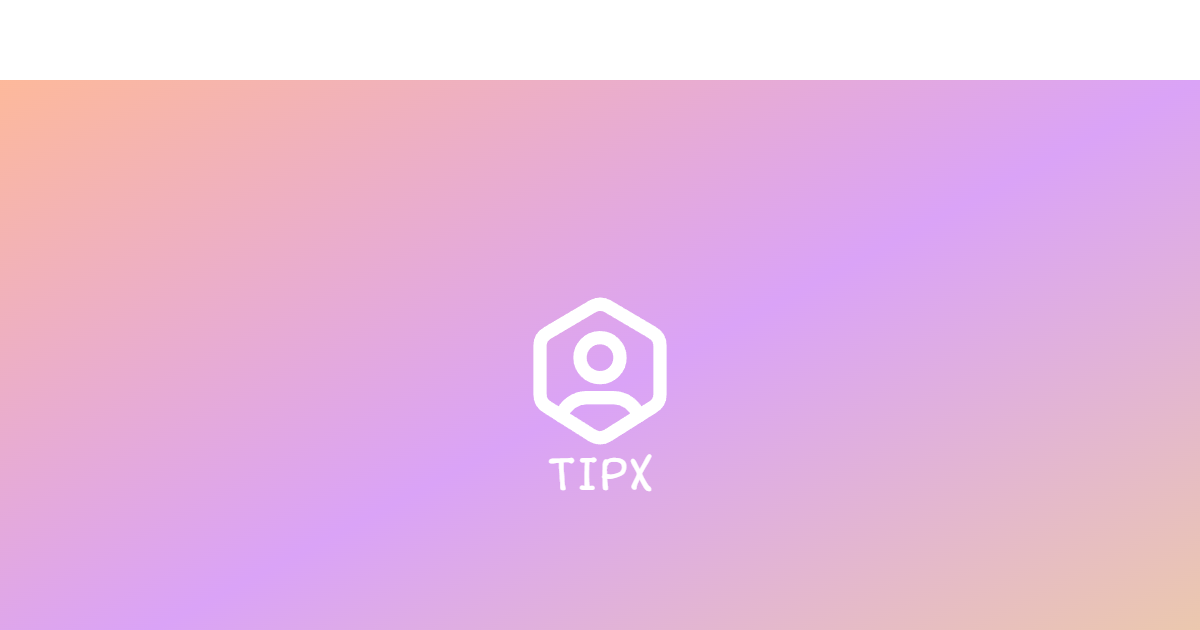
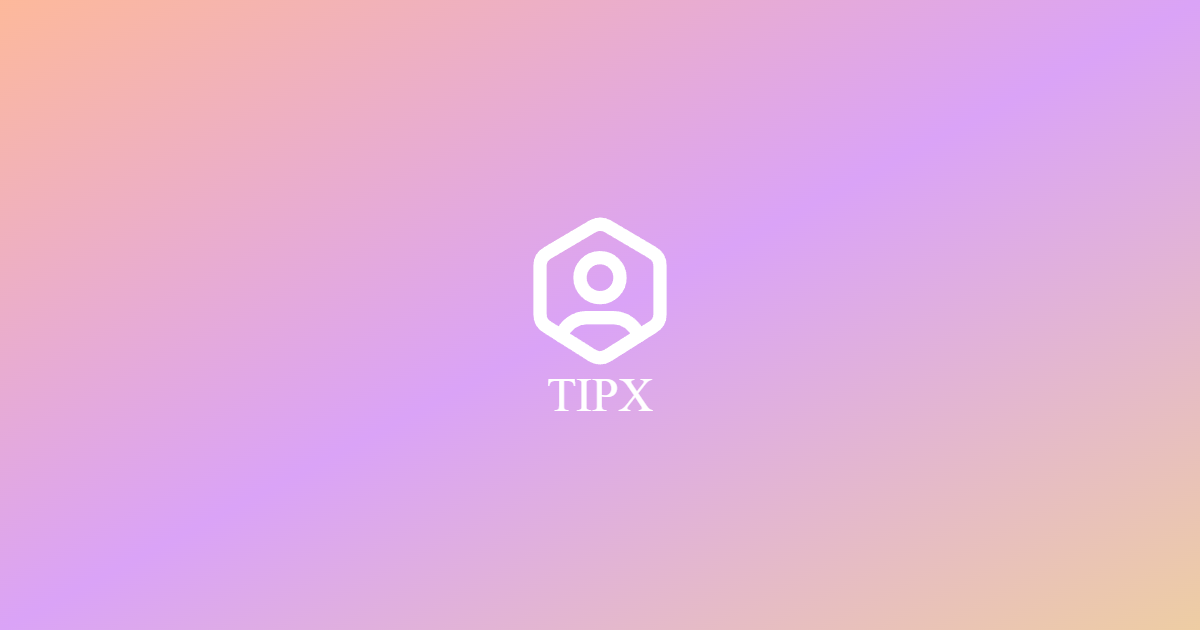
修改 og 尺寸

Changed region(s): [[0.0, 0.0, 1.0, 0.1508], [0.4317, 0.3317, 0.555, 0.7841]]

diff --git a/src/app/og/page.tsx b/src/app/og/page.tsx
@@ -23,8 +23,9 @@ const Test: React.FC = () => {
     }, [ref])
     return (
         <>
-            <div className='absolute top-20 left-0 h-[630px] w-[1200px]' ref={ref}>
+            <div className='absolute top-20 left-0 h-[630px] w-[1200px]'>
                 <div
+                    ref={ref}
                     className='h-full w-full px-14 py-12 text-white flex flex-col justify-center items-center'
                     style={{
                         background: "linear-gradient(to top left, #EECDA3, #daa3f7, #fdb99b)",
